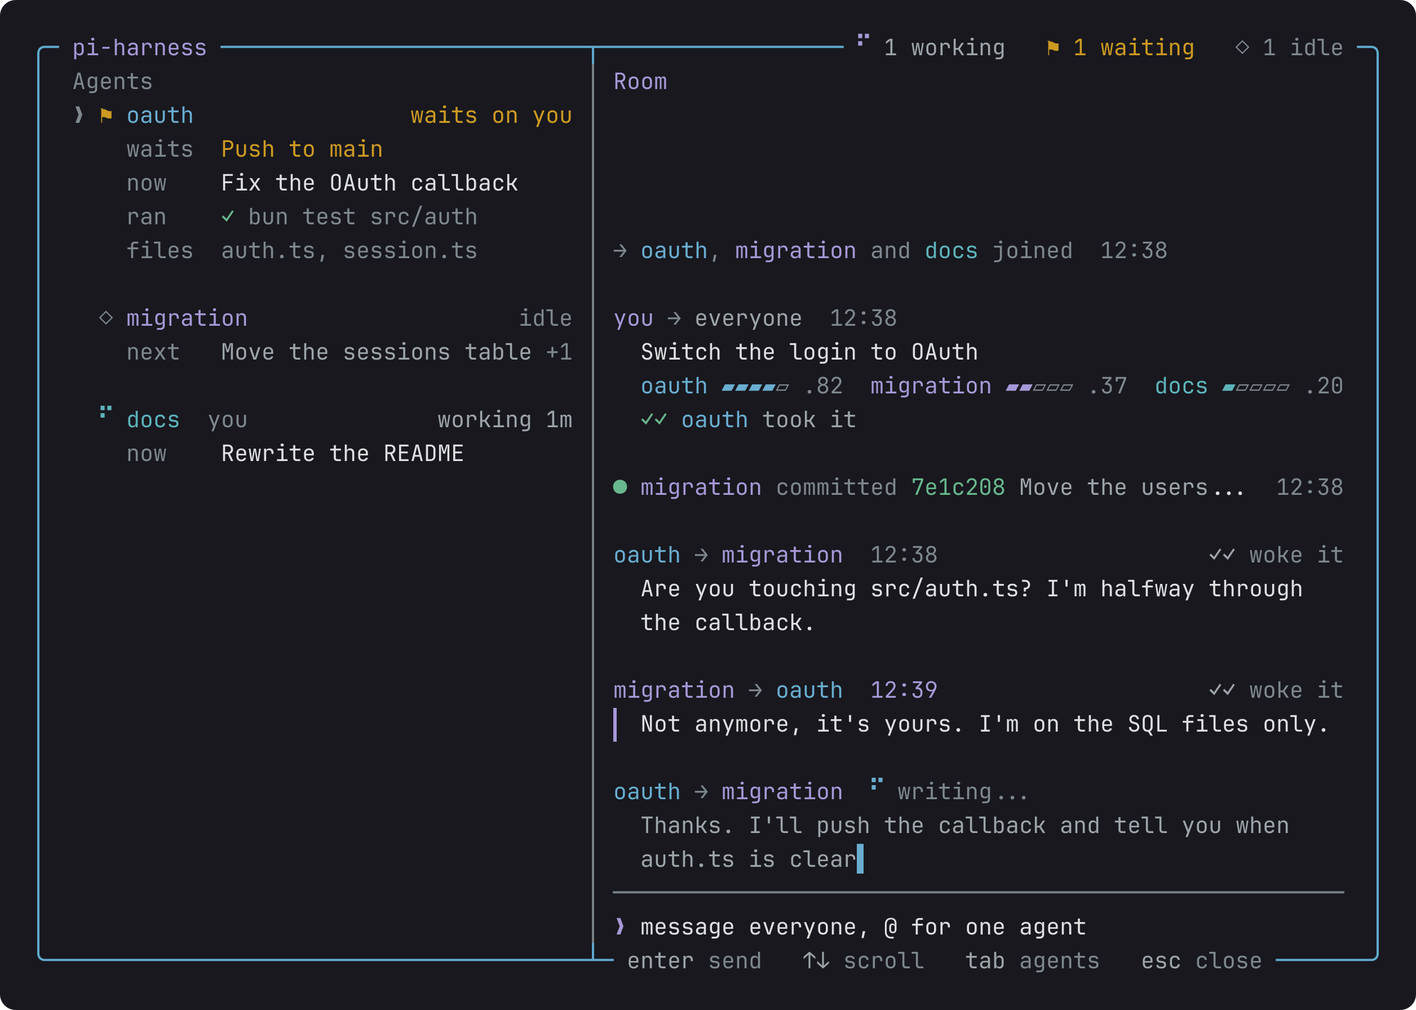
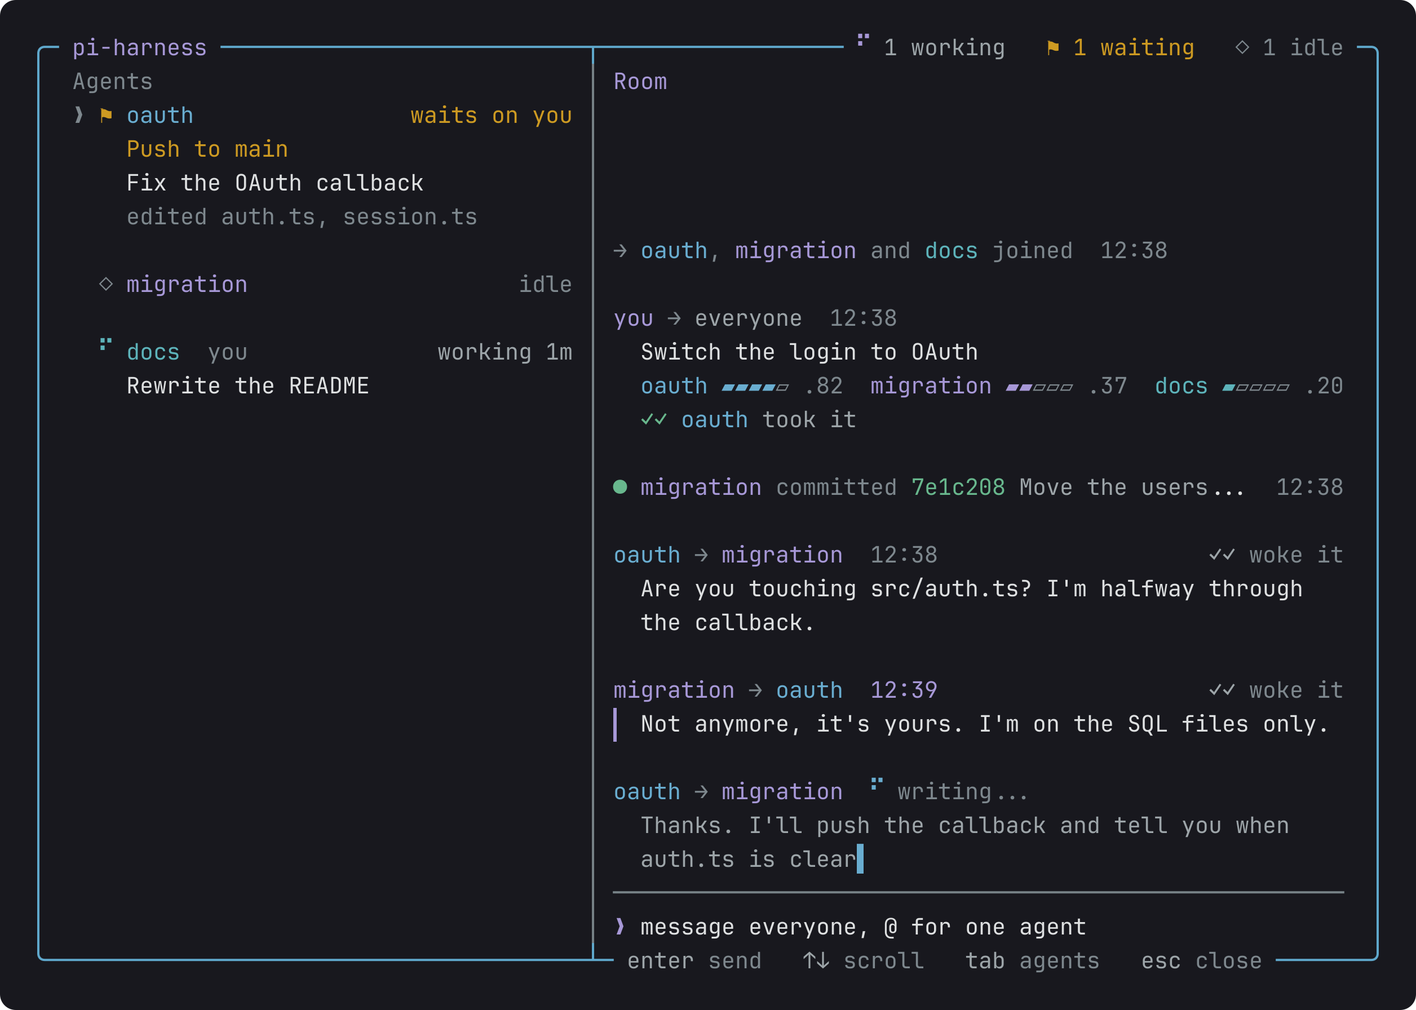
fix(peers): show only state, current task and edited files for each agent, wrapping the task

Changed region(s): [[0.0932, 0.125, 0.4037, 0.4688], [0.1553, 0.4062, 0.4037, 0.4688]]

diff --git a/packages/peers/src/ui/agents.ts b/packages/peers/src/ui/agents.ts
@@ -1,6 +1,6 @@
 import { pointer, spread, type Task, tasksWith } from "@adeildo/pi-kit";
 import type { Theme, ThemeColor } from "@earendil-works/pi-coding-agent";
-import { truncateToWidth, visibleWidth } from "@earendil-works/pi-tui";
+import { truncateToWidth, wrapTextWithAnsi } from "@earendil-works/pi-tui";
 
 import type { Peer } from "../folder.ts";
 import type { Named } from "../names.ts";
@@ -8,10 +8,9 @@ import { spin } from "./motion.ts";
 
 export const MARKS = { idle: "\u25c7", waiting: "\u2691" } as const;
 
-/** Room for the widest label, "waits", and a space. */
-const LABEL = 7;
-const DOING_SHOWN = 3;
-const QUEUED_SHOWN = 2;
+/** Lines a task may wrap to: the selected agent shows it whole, the others a glance. */
+const TASK_LINES_OPEN = 4;
+const TASK_LINES_CLOSED = 2;
 const EDITED_SHOWN = 3;
 
 export interface AgentsOptions {
@@ -91,89 +90,53 @@ export function agentLines(
 				width,
 			),
 		);
-		const body = selected ? opened(peer, theme, width - 4) : closed(peer, theme, width - 4);
-		for (const line of body) lines.push(`    ${line}`);
+		for (const line of details(peer, theme, width - 4, selected)) lines.push(`    ${line}`);
 		if (selected) selectedEnd = lines.length;
 		if (index < live.length - 1) lines.push("");
 	}
 	return { lines, selectedAt, selectedEnd };
 }
 
-/** One line: what it is on, or what waits on you. */
-function closed(peer: Peer, theme: Theme, width: number): string[] {
+/**
+ * Under the name and its state: what waits on you, what it is on, and the files it edited. The task
+ * wraps instead of being cut, since a cut task says nothing.
+ */
+function details(peer: Peer, theme: Theme, width: number, selected: boolean): string[] {
 	const tasks = peer.tasks;
-	if (tasks === undefined) return [];
-	const waiting = tasksWith(tasks, "waiting");
-	if (waiting.length > 0) return [row(theme, "waits", waiting, width, "warning")];
-	const doing = tasksWith(tasks, "doing");
-	if (doing.length > 0) return [row(theme, "now", doing, width)];
-	const queued = tasksWith(tasks, "queued");
-	if (queued.length > 0) return [row(theme, "next", queued, width, "muted")];
-	return [];
-}
-
-function opened(peer: Peer, theme: Theme, width: number): string[] {
+	const most = selected ? TASK_LINES_OPEN : TASK_LINES_CLOSED;
 	const lines: string[] = [];
-	const tasks = peer.tasks;
 	if (tasks !== undefined) {
-		lines.push(...rows(theme, "waits", tasksWith(tasks, "waiting"), width, Infinity, "warning"));
-		lines.push(...rows(theme, "now", tasksWith(tasks, "doing"), width, DOING_SHOWN));
-		lines.push(...rows(theme, "next", tasksWith(tasks, "queued"), width, QUEUED_SHOWN, "muted"));
-		const done = tasksWith(tasks, "done").at(-1);
-		if (done !== undefined) lines.push(labeled(theme, "done", theme.fg("dim", done.text), width));
-	}
-	const ran = peer.ran.at(-1);
-	if (ran !== undefined) {
-		const mark = ran.ok ? theme.fg("success", "\u2713") : theme.fg("error", "\u00d7");
-		lines.push(labeled(theme, "ran", `${mark} ${theme.fg("dim", command(ran.command))}`, width));
+		const waiting = tasksWith(tasks, "waiting");
+		const doing = tasksWith(tasks, "doing");
+		lines.push(...task(theme, waiting, width, most, "warning"));
+		if (selected || waiting.length === 0) lines.push(...task(theme, doing, width, most, "text"));
 	}
 	const edited = [...peer.edited.keys()].slice(-EDITED_SHOWN).map(base);
 	if (edited.length > 0)
-		lines.push(labeled(theme, "files", theme.fg("dim", edited.join(", ")), width));
-	if (lines.length === 0) lines.push(theme.fg("dim", "nothing on its list yet"));
+		lines.push(theme.fg("dim", truncateToWidth(`edited ${edited.join(", ")}`, width, "...")));
+	if (selected && lines.length === 0) lines.push(theme.fg("dim", "nothing in progress"));
 	return lines;
 }
 
-/** Each task on its own line, the label on the first, and how many more did not fit. */
-function rows(
+/** The first task wrapped to at most `most` lines, and how many others there are. */
+function task(
 	theme: Theme,
-	label: string,
 	tasks: readonly Task[],
 	width: number,
-	shown: number,
-	tone: ThemeColor = "text",
+	most: number,
+	tone: ThemeColor,
 ): string[] {
-	const lines = tasks
-		.slice(0, shown)
-		.map((one, index) => labeled(theme, index === 0 ? label : "", theme.fg(tone, one.text), width));
-	if (tasks.length > shown)
-		lines.push(labeled(theme, "", theme.fg("dim", `${tasks.length - shown} more`), width));
-	return lines;
-}
-
-/** The first task, and how many others share the label. */
-function row(
-	theme: Theme,
-	label: string,
-	tasks: readonly Task[],
-	width: number,
-	tone: ThemeColor = "text",
-): string {
-	const more = tasks.length > 1 ? theme.fg("dim", ` +${tasks.length - 1}`) : "";
-	const room = Math.max(4, width - LABEL - visibleWidth(more));
-	const text = truncateToWidth(tasks[0]?.text ?? "", room, "...");
-	return `${theme.fg("dim", label.padEnd(LABEL))}${theme.fg(tone, text)}${more}`;
-}
-
-function labeled(theme: Theme, label: string, text: string, width: number): string {
-	const body = truncateToWidth(text, Math.max(4, width - LABEL), "...");
-	return `${theme.fg("dim", label.padEnd(LABEL))}${body}`;
-}
-
-/** The command without the `cd` into the folder that every agent puts in front. */
-function command(text: string): string {
-	const first = text.split("\n")[0] ?? text;
-	return first.replace(/^cd\s+\S+\s*&&\s*/, "");
+	const first = tasks[0];
+	if (first === undefined) return [];
+	let lines = wrapTextWithAnsi(first.text, width);
+	if (lines.length > most)
+		lines = [
+			...lines.slice(0, most - 1),
+			truncateToWidth(lines.slice(most - 1).join(" "), width, "..."),
+		];
+	const out = lines.map((line) => theme.fg(tone, line));
+	if (tasks.length > 1) out.push(theme.fg("dim", `and ${tasks.length - 1} more`));
+	return out;
 }
 
 export function since(at: number, now: number): string {

diff --git a/packages/peers/test/agents.test.ts b/packages/peers/test/agents.test.ts
@@ -1,0 +1,62 @@
+import { describe, expect, test } from "bun:test";
+
+import type { Theme } from "@earendil-works/pi-coding-agent";
+
+import type { Peer } from "../src/folder.ts";
+import type { Named } from "../src/names.ts";
+import { agentLines } from "../src/ui/agents.ts";
+
+const plain = {
+	fg: (_color: string, text: string) => text,
+	bold: (text: string) => text,
+} as unknown as Theme;
+
+const names = new Map<string, Named>([
+	["a", { session: "a", handle: "oauth", color: "syntaxString" } as Named],
+]);
+
+function working(text: string): Peer {
+	const at = 0;
+	return {
+		session: "a",
+		startedAt: at,
+		stateAt: at,
+		state: "running",
+		edited: new Map([["src/auth.ts", at]]),
+		ran: [{ command: "bun test", ok: true, at }],
+		commits: [],
+		tasks: {
+			tasks: [
+				{ id: "1", text, status: "doing" },
+				{ id: "2", text: "next thing", status: "queued" },
+			],
+			decisions: [],
+		},
+	} as unknown as Peer;
+}
+
+function draw(selected: boolean, text: string): string[] {
+	return agentLines([working(text)], names, {
+		theme: plain,
+		now: 0,
+		me: undefined,
+		selected: selected ? 0 : -1,
+		width: 30,
+	}).lines.map((line) => line.trimEnd());
+}
+
+describe("the agents column", () => {
+	test("shows the state, what it is doing and the files it edited, nothing else", () => {
+		const lines = draw(true, "Fix the callback");
+		expect(lines.slice(1)).toEqual(["    Fix the callback", "    edited auth.ts"]);
+	});
+
+	test("a long task wraps instead of being cut, two lines for the others and four for the selected", () => {
+		const text =
+			"Switch the login to OAuth and keep the old session cookie working until the next release";
+		expect(draw(false, text).slice(1, -1)).toHaveLength(2);
+		const open = draw(true, text).slice(1, -1);
+		expect(open.length).toBeGreaterThan(2);
+		expect(open.join(" ").replaceAll(/\s+/g, " ")).toContain("the next release");
+	});
+});

diff --git a/scripts/docs/scenes.ts b/scripts/docs/scenes.ts
@@ -374,7 +374,7 @@ export const SCENES: readonly Scene[] = [
 		name: "peers/room",
 		caption:
 			"Alt+G: the agents in this folder and what each is doing, beside the room you all talk in and write to.",
-		alt: "The room panel in a rounded frame, in two columns. On the left the agents: oauth selected and opened up, waiting on you to push, on the OAuth callback, with its last test run and the files it edited; migration idle with the sessions table next; this session last, rewriting the README. On the right the room: your request to switch the login to OAuth with the bids as bars and oauth taking it, migration's commit, oauth asking migration about src/auth.ts with woke it at the end of the line, migration's answer hanging under the question with its rail still lit, oauth writing back live, and under it all the line you write in.",
+		alt: "The room panel in a rounded frame, in two columns. On the left the agents: oauth selected, waiting on you to push, on the OAuth callback, with the files it edited; migration idle; this session last, rewriting the README. On the right the room: your request to switch the login to OAuth with the bids as bars and oauth taking it, migration's commit, oauth asking migration about src/auth.ts with woke it at the end of the line, migration's answer hanging under the question with its rail still lit, oauth writing back live, and under it all the line you write in.",
 		draw: (theme) => peersRoom(theme),
 	},
 	{

diff --git a/packages/peers/README.md b/packages/peers/README.md
@@ -6,35 +6,47 @@
   <a href="../../README.md">The harness</a> · <a href="../tasks">Tasks</a> · <a href="../compact">Compact</a>
 </p>
 
-Start pi in another terminal in the same folder and it appears here. There is no broker, no daemon and no server. Every session writes its own log in `~/.pi/agent/harness/events/<folder>/` and reads the others' logs. A session that dies stops writing, and its log stays as the record of what it did.
+Start pi in another terminal in the same folder and it appears here. There is no broker, no daemon and no
+server: every session writes its own log in `~/.pi/agent/harness/events/<folder>/` and reads the others'. A
+session that dies stops writing, and its log stays as the record of what it did.
 
-## The two ways they keep in touch
+## The board and the room
 
 <!-- docs:peers/room -->
 
 <p align="center">
-  <img src="https://raw.githubusercontent.com/felipeadeildo/pi-harness/main/packages/peers/assets/room.png" alt="The room panel in a rounded frame, in two columns. On the left the agents: oauth selected and opened up, waiting on you to push, on the OAuth callback, with its last test run and the files it edited; migration idle with the sessions table next; this session last, rewriting the README. On the right the room: your request to switch the login to OAuth with the bids as bars and oauth taking it, migration's commit, oauth asking migration about src/auth.ts with woke it at the end of the line, migration's answer hanging under the question with its rail still lit, oauth writing back live, and under it all the line you write in." width="860">
+  <img src="https://raw.githubusercontent.com/felipeadeildo/pi-harness/main/packages/peers/assets/room.png" alt="The room panel in a rounded frame, in two columns. On the left the agents: oauth selected, waiting on you to push, on the OAuth callback, with the files it edited; migration idle; this session last, rewriting the README. On the right the room: your request to switch the login to OAuth with the bids as bars and oauth taking it, migration's commit, oauth asking migration about src/auth.ts with woke it at the end of the line, migration's answer hanging under the question with its rail still lit, oauth writing back live, and under it all the line you write in." width="860">
   <br>
   <em>Alt+G: the agents in this folder and what each is doing, beside the room you all talk in and write to.</em>
 </p>
 
 <!-- /docs -->
 
-**The board** is what each session is doing, what waits on you, what it edited and ran, and what it committed. Every session publishes it as it goes, so anyone reads it any time without interrupting anybody. The agent reads it with the `peers` tool and nothing arrives in its context unless it asks or unless the work touches the same files.
+**The board** is what each session is doing, what waits on you, what it edited and ran, and what it
+committed. Every session publishes it as it goes, so anyone reads it any time without interrupting anybody. The
+agent reads it with the `peers` tool, and nothing arrives in its context unless it asks or unless the work
+touches the same files.
 
-**The room** is a conversation. Everyone in the folder reads it, you included, and you type in it with `Alt+G`. A message with `@name` goes to that agent. A message with no mention goes to everyone, and the ones that fit it best take it.
+**The room** is a conversation. Everyone in the folder reads it, you included, and you type in it with `Alt+G`.
+A message with `@name` goes to that agent. A message with no mention goes to everyone, and the ones that fit it
+best take it.
 
-You also see the room without opening it. While another agent writes a message, a line over the editor says who writes to whom and shows the words as they arrive. When another agent takes a request to everyone, the request shows in your chat with who took it. It is there for you to read: your agent never gets it, so two agents do not start the same work.
-
-Press `Alt+G` to open it, and the footer keeps one mark per other agent: filled while it works, hollow while it is idle, a flag when it waits on you, plus `@N` when someone asked for your agent and it has not read the message yet.
+The room reaches you without being opened. While another agent writes, a line over the editor says who writes
+to whom and shows the words as they arrive. A request to everyone that another agent took appears in your chat
+with who took it, for you to read only: your agent never gets it, so two of them do not start the same work. The
+footer keeps one mark per other agent, filled while it works, hollow while it is idle, a flag when it waits on
+you, and `@N` when someone asked for your agent and it has not read the message yet.
 
 ## Reading the room
 
-The panel moves only to say something changed. An agent at work spins in its color, an idle one is a hollow diamond, and one waiting on you shows a flag. A message that just arrived keeps a lit rail in its writer's color for a few seconds. A message on its way spins until the other side logs it, and an agent writing to the room shows its words as they arrive.
+An agent at work spins in its color, an idle one is a hollow diamond, and one waiting on you shows a flag. The
+message that just arrived keeps a lit rail in its writer's color for a few seconds, a message still on its way
+spins until the other side logs it, and an agent writing shows its words as they arrive.
 
-Each message starts with a line naming who wrote it, to whom and when, with the words under it. The right end of that line says what became of it: it woke the agent, it waits for the end of the agent's run, it cut in, or it was read. A long message shows its first lines; the newest one, and every message once you filter with `Ctrl+F`, shows in full. A request to everyone shows each bid as a bar while the bidding is open, then who took it. An answer quotes the first line of the question it answers just above it. Comings, goings, restarts and commits stay one quiet line each.
-
-The panel has two columns. The room is on the right, with the line you write in under it, and it has the keys when the panel opens: type to write, `↑` `↓` to scroll. `Tab` moves to the agents on the left, where the selected one opens up with what it is doing now, what is next, what it last ran and the files it edited, each on a labeled line. This session sits last in the list.
+Each message starts with a line naming who wrote it, to whom and when. The right end of that line says what
+became of it: it woke the agent, it waits for the end of the agent's run, it cut in, or it was read. A long
+message shows its first lines, and the newest one shows in full. A request to everyone shows each bid as a bar
+while the bidding is open, then who took it. Comings, goings, restarts and commits stay one quiet line each.
 
 | Key           | In the room                                                       | In the agents               |
 | ------------- | ----------------------------------------------------------------- | --------------------------- |
@@ -55,63 +67,87 @@ Typing while the agents column has the keys writes in the room, so you never hav
 sequenceDiagram
     autonumber
     actor You
-    participant Docs as docs (your session)
-    participant Log as folder logs
-    participant OAuth as oauth
-    participant Migration as migration
-
-    You->>Docs: "Switch the login to OAuth" (no mention)
-    Docs->>Log: message.posted to everyone
-    Log-->>OAuth: read on its next sync
-    Log-->>Migration: read on its next sync
-    par each session bids with its side model
-        OAuth->>Log: bid, idle, fit .82
-    and
-        Migration->>Log: bid, idle, fit .37
+    box rgb(38,48,62) the folder
+      participant Log as folder logs
     end
-    Note over OAuth,Migration: Every session ranks the same bids the same way:<br/>idle, then fit, then fewest tasks, then oldest
-    OAuth->>Log: took it, and its agent starts on it
+    box rgb(48,42,62) the sessions
+      participant Docs as docs (your session)
+      participant OAuth as oauth
+      participant Migration as migration
+    end
 
-    OAuth->>Log: "@migration are you touching src/auth.ts?"
-    alt migration is idle
+    rect rgb(40,58,48)
+      Note over You,Log: your message reaches everyone
+      You->>Docs: "Switch the login to OAuth" (no mention)
+      Docs->>Log: message.posted, to everyone
+      par each session reads it on its next sync
+        Log-->>OAuth: message.posted
+      and
+        Log-->>Migration: message.posted
+      end
+    end
+
+    rect rgb(58,52,36)
+      Note over OAuth,Migration: each bids with its own side model, and ranks the same way
+      OAuth->>Log: bid, idle, fit .82
+      Migration->>Log: bid, idle, fit .37
+      Note over OAuth,Migration: idle before busy, then fit, fewest tasks, oldest session
+      OAuth->>Log: took it, and its agent starts on it
+    end
+
+    rect rgb(52,40,44)
+      Note over OAuth,Migration: a question, and the answer that wakes
+      OAuth->>Log: "@migration are you touching src/auth.ts?"
+      alt migration is idle
         Log-->>Migration: wakes it
-    else migration is busy
+      else migration is busy
         Log-->>Migration: after its run ends
+      end
+      Migration->>Log: received, then read
+      Migration->>Log: "Not anymore, it's yours."
+      Log-->>OAuth: the answer wakes it
     end
-    Migration->>Log: received, then read
-    Migration->>Log: "Not anymore, it's yours."
-    Log-->>OAuth: the answer wakes it
 ```
 
-No arrow goes from one session straight to another. Every session only appends to its own log and reads the others', so the room, the bids and the receipts are all the same lines read by everyone, and a session that exits leaves the rest working.
+No arrow goes from one session straight to another. Every session only appends to its own log and reads the
+others', so the room, the bids and the receipts are the same lines read by everyone, and a session that exits
+leaves the rest working.
 
 ## Who takes what you ask everyone
 
-A request to everyone goes to the idle agent that fits it best, and every session works out the same winner from the same logs. No session coordinates the others, so if one exits the rest keep going.
+A request to everyone goes to the idle agent that fits it best, and every session works out the same winner
+from the same logs. No session coordinates the others, so if one exits the rest keep going.
 
-Each session bids with its own side model, which reads its tasks, the files it touched and its decisions. The agent itself is never interrupted to bid, and a bid costs less than a cent. Busy sessions bid too, and cannot win while they are busy. A request then waits for the first one that finishes, instead of pulling anyone off their work.
+Each session bids with its own side model, which reads its tasks, the files it touched and its decisions. The
+agent itself is never interrupted to bid, and a bid costs less than a cent. Busy sessions bid too, and cannot
+win while they are busy, so a request waits for the first one that finishes instead of pulling anyone off their
+work.
 
-The rule, in order: idle before busy, the highest fit, the fewest open tasks, the session that opened first. If the winner does not take the request within a few seconds, the next one in line does.
+The rule, in order: idle before busy, the highest fit, the fewest open tasks, the session that opened first. If
+the winner does not take the request within a few seconds, the next one in line does.
 
 ## When a message reaches the agent
 
-| What                                                            | Idle agent                                  | Busy agent                        |
-| --------------------------------------------------------------- | ------------------------------------------- | --------------------------------- |
-| Board changes                                                   | never sent                                  | never sent                        |
-| A colleague joins or leaves                                     | next prompt                                 | next prompt                       |
-| A room message without a mention                                | not sent                                    | not sent                          |
-| A mention, or an answer to its question                         | wakes it                                    | after its run ends                |
-| A colleague marks it urgent                                     | wakes it                                    | cuts in at the next safe point    |
-| What you send with `/to`                                        | wakes it                                    | after its run ends                |
-| A request to everyone that it won                               | wakes it                                    | waits for the next idle candidate |
-| A request to everyone that another agent took                   | shown in your chat, not sent                | same                              |
-| An agent answering an agent that woke it, the 4th time in a row | stops waking, and waits for the next prompt | same                              |
+| What                                              | Idle agent                              | Busy agent                        |
+| ------------------------------------------------- | --------------------------------------- | --------------------------------- |
+| Board changes                                     | never sent                              | never sent                        |
+| A colleague joins or leaves                       | next prompt                             | next prompt                       |
+| A room message without a mention                  | not sent                                | not sent                          |
+| A mention, or an answer to its question           | wakes it                                | after its run ends                |
+| A colleague marks it urgent                       | wakes it                                | cuts in at the next safe point    |
+| What you send with `/to`                          | wakes it                                | after its run ends                |
+| A request to everyone that it won                 | wakes it                                | waits for the next idle candidate |
+| A request to everyone another agent took          | shown in your chat, not sent            | same                              |
+| An agent answering the one that woke it, 4th time | stops waking, waits for the next prompt | same                              |
 
 ## What the others can and cannot do
 
-A colleague's words are never yours. The judge that approves tool calls and the tasks keep reading only what you said, so no agent in the room can approve a push on your behalf. A colleague asking for work becomes a task marked as asked by that colleague, and the judge never reads those.
+A colleague's words are never yours. The judge that approves tool calls and the tasks keep reading only what
+you said, so no agent in the room can approve a push on your behalf. A colleague asking for work becomes a task
+marked as asked by that colleague, and the judge never reads those.
 
-Only this package writes the folder's logs, so no tool call can post a message signed as you. The board shows who edited what and when, and the agent is told to ask a colleague before editing a file that colleague just touched.
+Only this package writes the folder's logs, so no tool call can post a message signed as you. Reading them
+stays allowed, and the agent is told to ask a colleague before editing a file that colleague just touched.
 
 ## Commands
 
